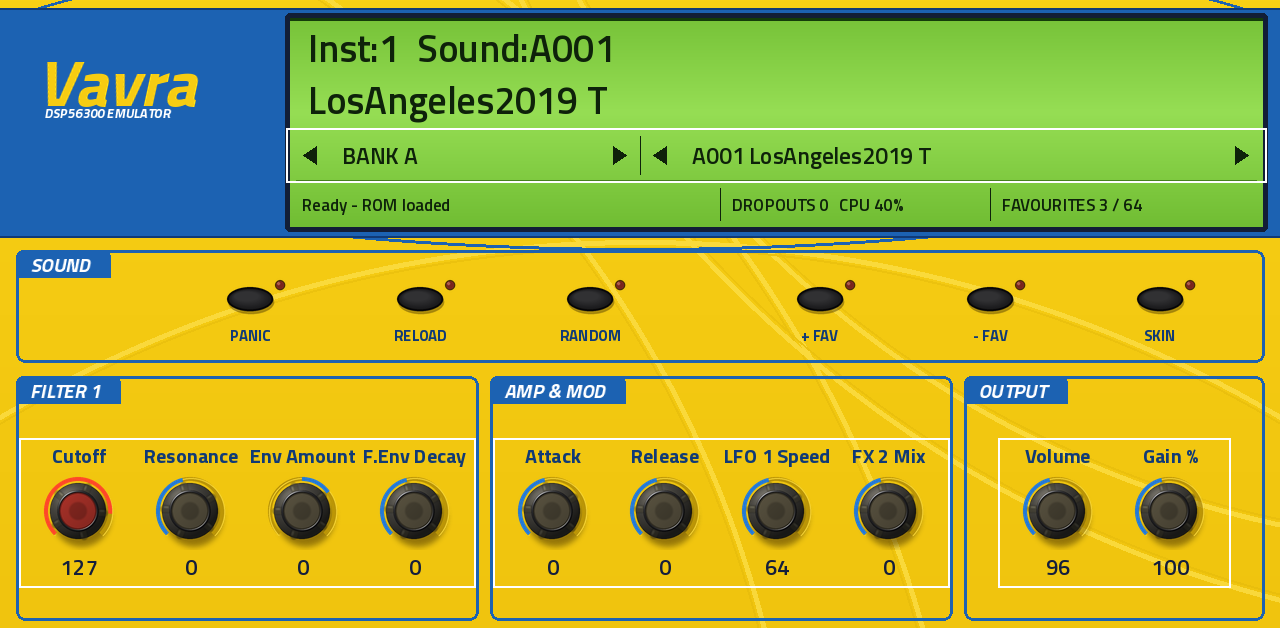
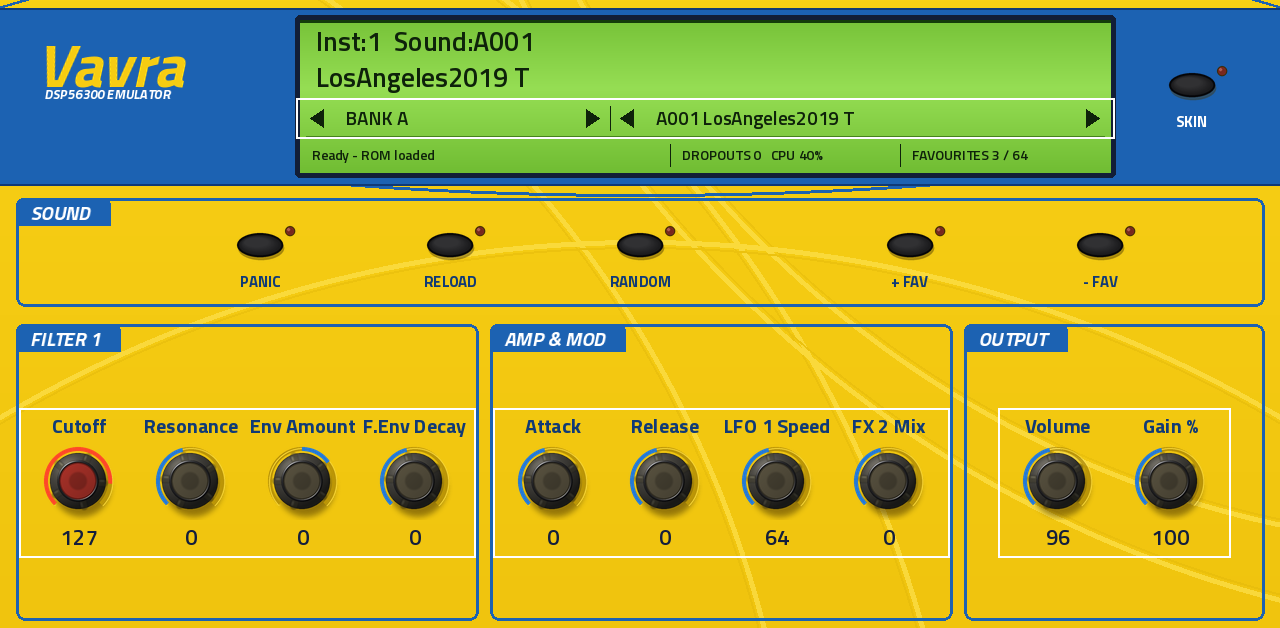
MAIN: a smaller display in proportion with the panel; SKIN in the band beside it, the sound keys and knobs move up
Claude-Session: https://claude.ai/code/session_01JtHXuU5P5A4jz5VUQ1Liwm

diff --git a/tools/make_tui.py b/tools/make_tui.py
@@ -318,39 +318,40 @@ def display_row(pg, x0, y0, y1, fields, size, aw=40):
 
 # ---- the pages ---------------------------------------------------------------------------------------------------------------
 def page_main(fn):
-    """MAIN: one display in the blue band, as the hardware's: the microQ's own LCD (two large lines), then bank | sound with step
-    arrows, then status | dropouts and CPU | favourites; the sound keys in a row under it; three quick-edit blocks."""
+    """MAIN: one display in the blue band, as the hardware's: the microQ's own LCD (two lines), then bank | sound with step arrows, then
+    status | dropouts and CPU | favourites; SKIN beside it (a global setting); the sound keys in a row; three quick-edit blocks."""
     pg = Page("MAIN", fn)
-    A.band(pg.art, 0, 8, 1280, 236, oval=(-90, -60, 1370, 250))
-    A.wordmark(pg.art, 34, 60, 62)
-    x0, x1, y0, y1 = 290, 1262, 18, 226
+    A.band(pg.art, 0, 8, 1280, 184, oval=(-90, -60, 1370, 196))
+    A.wordmark(pg.art, 34, 44, 58)
+    x0, x1, y0, y1 = 300, 1110, 20, 172
     A.lcd(pg.art, x0, y0, x1, y1, cells=0)
     d = ImageDraw.Draw(pg.art)
-    d.line((x0 + 6, 128, x1 - 6, 128), fill=A.LCD_DK + (255,), width=2)
-    d.line((x0 + 6, 180, x1 - 6, 180), fill=A.LCD_DK + (255,), width=1)
-    pg.kids.append(label("%d 20 %d 54" % (x0 + 16, x1 - x0 - 32), "lcd1", 50, hexcol(A.LCD_INK), "left verticallyCentred", "Bold"))
-    pg.kids.append(label("%d 72 %d 54" % (x0 + 16, x1 - x0 - 32), "lcd2", 50, hexcol(A.LCD_INK), "left verticallyCentred", "Bold"))
-    display_row(pg, x0, 130, 180, [(640, "bank_name", "bank_prev", "bank_next"), (x1, "preset_name", "preset_prev", "preset_next")], 30)
-    display_row(pg, x0, 182, 226, [(720, "loading_status", None, None), (990, "engine_stats", None, None), (x1, "fav_text", None, None)], 22)
+    d.line((x0 + 6, 98, x1 - 6, 98), fill=A.LCD_DK + (255,), width=2)
+    d.line((x0 + 6, 136, x1 - 6, 136), fill=A.LCD_DK + (255,), width=1)
+    pg.kids.append(label("%d 22 %d 38" % (x0 + 14, x1 - x0 - 28), "lcd1", 36, hexcol(A.LCD_INK), "left verticallyCentred", "Bold"))
+    pg.kids.append(label("%d 58 %d 38" % (x0 + 14, x1 - x0 - 28), "lcd2", 36, hexcol(A.LCD_INK), "left verticallyCentred", "Bold"))
+    display_row(pg, x0, 100, 136, [(610, "bank_name", "bank_prev", "bank_next"), (x1, "preset_name", "preset_prev", "preset_next")], 25, aw=34)
+    display_row(pg, x0, 138, 172, [(670, "loading_status", None, None), (900, "engine_stats", None, None), (x1, "fav_text", None, None)], 19)
+    pg.key("skin", 1192, 96, "SKIN", ink=A.WHITE)
     # the sound keys
-    pg.section(16, 250, 1264, 362, "sound")
+    pg.section(16, 198, 1264, 306, "sound")
     for i, (k, cap) in enumerate((("all_notes_off", "PANIC"), ("init_patch", "RELOAD"), ("random_patch", "RANDOM"),
-                                  ("fav_save", "+ FAV"), ("fav_delete", "- FAV"), ("skin", "SKIN"))):
-        pg.key(k, 250 + i * 170 + (60 if i >= 3 else 0), 310, cap)
+                                  ("fav_save", "+ FAV"), ("fav_delete", "- FAV"))):
+        pg.key(k, 260 + i * 190 + (80 if i >= 3 else 0), 256, cap)
     # quick edit: three blocks
-    ky = 512
-    pg.section(16, 376, 478, 620, "filter 1")
+    ky = 482
+    pg.section(16, 324, 478, 620, "filter 1")
     for i, (k, c) in enumerate((("F1Cutoff", "Cutoff"), ("F1Resonance", "Resonance"), ("F1EnvMod", "Env Amount"), ("FilterEnvDecay", "F.Env Decay"))):
         pg.knob(k, 79 + i * 112, ky, c)
-    pg.section(490, 376, 952, 620, "amp & mod")
+    pg.section(490, 324, 952, 620, "amp & mod")
     for i, (k, c) in enumerate((("AmpEnvAttack", "Attack"), ("AmpEnvRelease", "Release"), ("Lfo1Speed", "LFO 1 Speed"), ("FX2Mix", "FX 2 Mix"))):
         pg.knob(k, 553 + i * 112, ky, c)
-    pg.section(964, 376, 1264, 620, "output")
+    pg.section(964, 324, 1264, 620, "output")
     pg.knob("AmpVolume", 1058, ky, "Volume")
     pg.knob("gain", 1170, ky, "Gain %")
     for keys in (["F1Cutoff", "F1Resonance", "F1EnvMod", "FilterEnvDecay"], ["AmpEnvAttack", "AmpEnvRelease", "Lfo1Speed", "FX2Mix"], ["AmpVolume", "gain"]):
         pg.block(keys)
-    pg.block(["bank_index", "preset"], rect=(286, 128, 1266, 182))
+    pg.block(["bank_index", "preset"], rect=(296, 98, 1114, 138))
     keyboard(pg)
     return pg
 
